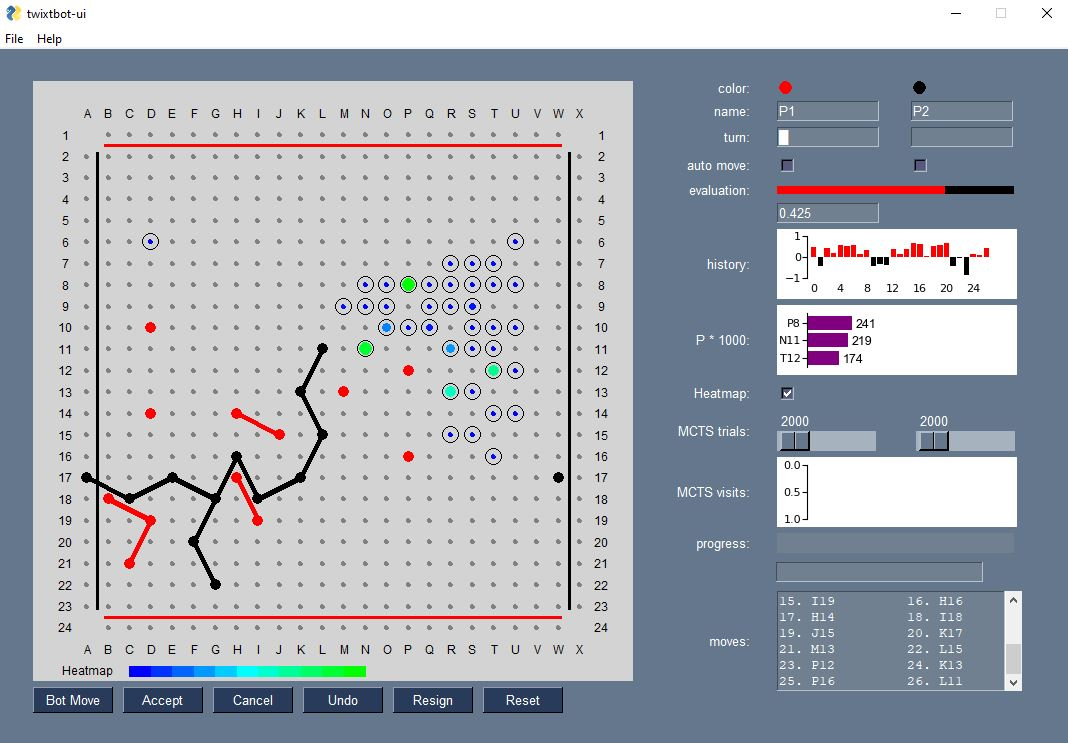
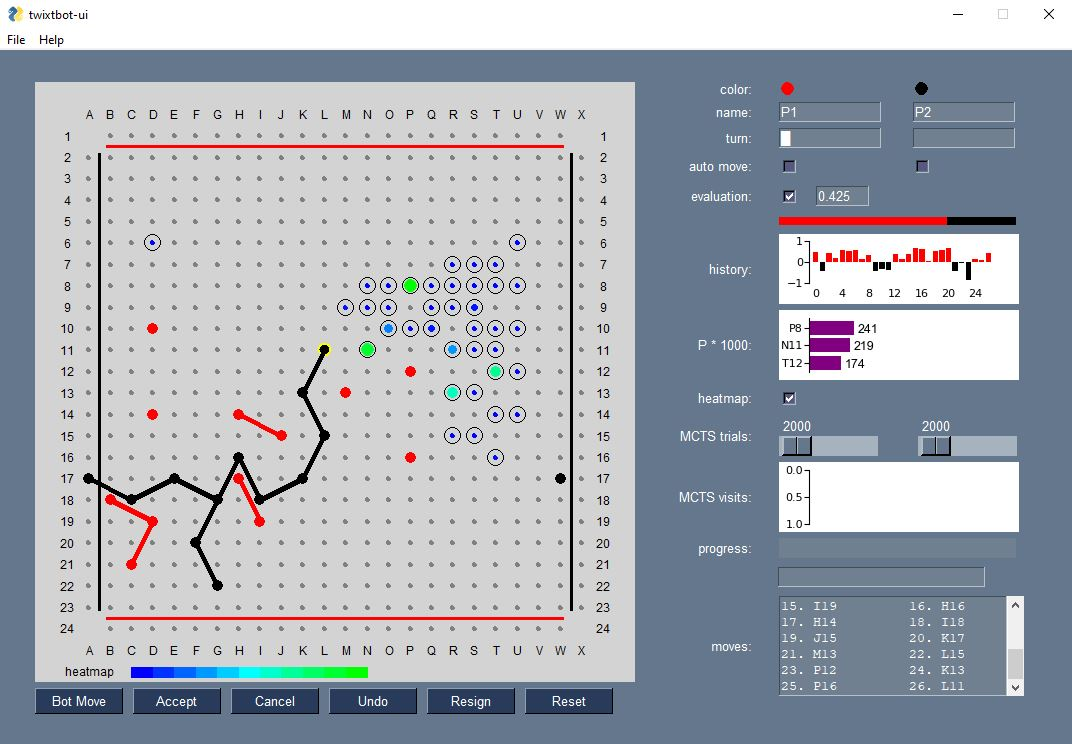
option to hide evaluation / bugfix cancel MCTS (#58)
* Added share directory to .gitignore
* hide_policy_#47 initial commit
* bugfix cancel + smart accept
* update README.md and images

diff --git a/src/tbui.py b/src/tbui.py
@@ -23,6 +23,7 @@ class BotEvent(threading.Event):
 
     def __init__(self):
         super().__init__()
+        self.context = None
 
     def get_context(self):
         return self.context
@@ -59,6 +60,7 @@ class TwixtbotUI():
         self.game = game
         self.moves_score = {}
         self.stgs = stgs
+        self.bot_event = None
 
         # Setup main GUI window
         layout = lt.MainWindowLayout(board, stgs).get_layout()
@@ -93,6 +95,7 @@ class TwixtbotUI():
         self.window.bind('<Alt-g>', ct.B_RESIGN)
         self.window.bind('<Alt-r>', ct.B_RESET)
         self.window.bind('<Alt-m>', ct.EVENT_SHORTCUT_HEATMAP)
+        self.window.bind('<Alt-e>', ct.EVENT_SHORTCUT_SHOW_EVALUATION)
         self.window.bind('<Alt-KeyPress-1>', ct.EVENT_SHORTCUT_AUTOMOVE_1)
         self.window.bind('<Alt-KeyPress-2>', ct.EVENT_SHORTCUT_AUTOMOVE_2)
         self.window.bind('<Alt-Right->', ct.EVENT_SHORTCUT_TRIALS_1_PLUS)
@@ -193,7 +196,19 @@ class TwixtbotUI():
 
         return sc, moves, P
 
+    def clear_evals(self):
+        self.get_control(ct.K_EVAL_NUM).Update('')
+        self.get_control(ct.K_EVAL_BAR).Update(0)
+        self.eval_moves_plot.update()
+        self.eval_hist_plot.update()
+        self.visit_plot.update()
+
     def update_evals(self):
+        if not self.get_control(ct.K_SHOW_EVALUATION).get():
+            self.clear_evals()
+            self.next_move = None
+            return
+
         if not self.game_over(False):
             sc, moves, P = self.calc_eval()
 
@@ -232,8 +247,10 @@ class TwixtbotUI():
             if self.stgs.get(ct.K_SMART_ACCEPT[1]) and "Y" in values:
                 diff = values["Y"][0] - values["Y"][1]
                 if diff > max_value - value:
-                    # 2nd best cannot catch up => accept
-                    self.handle_accept_bot()
+                    # 2nd best cannot catch up => accept (if not already
+                    # cancelled)
+                    if self.bot_event.get_context() != ct.CANCEL_EVENT:
+                        self.handle_accept_bot()
 
                 # reduce max val
                 while diff > values["max"] - max_value + 20 and max_value >= value + 20:
@@ -263,7 +280,9 @@ class TwixtbotUI():
 
         self.update_turn_indicators()
         self.update_history()
-        self.update_evals()
+
+        if self.get_control(ct.K_SHOW_EVALUATION).get():
+            self.update_evals()
 
     def update_settings_changed(self):
         self.board.draw()
@@ -341,12 +360,12 @@ class TwixtbotUI():
         else:
             # mcts, or first/second move
             self.bots[self.game.turn].pick_move(
-                self.game, self.window, self.event)
+                self.game, self.window, self.bot_event)
 
     def launch_bot(self):
         self.visit_plot.update()
         self.window[ct.K_SPINNER[1]].Update(visible=True)
-        self.event = BotEvent()
+        self.bot_event = BotEvent()
         self.thread = threading.Thread(
             target=self.bot_move, args=(), daemon=True)
 
@@ -419,10 +438,10 @@ class TwixtbotUI():
                 ct.K_AUTO_MOVE, self.game.turn_to_player()).Update(False)
 
     def handle_accept_bot(self):
-        self.event.set(ct.ACCEPT_EVENT)
+        self.bot_event.set(ct.ACCEPT_EVENT)
 
     def handle_cancel_bot(self):
-        self.event.set(ct.CANCEL_EVENT)
+        self.bot_event.set(ct.CANCEL_EVENT)
         # switch off auto move
         if self.get_current(ct.K_AUTO_MOVE):
             self.set_current(ct.K_AUTO_MOVE, False)
@@ -432,20 +451,24 @@ class TwixtbotUI():
     def handle_thread_event(self, values):
         print("Bot response: " + str(values))
         if values["max"] != 0:
+            # mcts case
             self.update_progress(values)
 
-        if "moves" in values and "current" in values and len(values["moves"]) > 1:
+        if self.get_control(ct.K_SHOW_EVALUATION).get() and "moves" in values and "current" in values and len(values["moves"]) > 1:
             self.visit_plot.update(values, max(1, values["max"]))
 
         if values["status"] == "done":
             self.get_control(ct.K_SPINNER).Update(visible=False)
-            if not self.event.is_set() or self.event.get_context() == ct.ACCEPT_EVENT:
+            if not self.bot_event.is_set() or self.bot_event.get_context() == ct.ACCEPT_EVENT:
                 # bot has not been cancelled (but is finished or accepted)
                 self.execute_move(values["moves"][0])
                 self.update_after_move()
             else:
-                # clear progress controls
+                # bot has been cancelled clear progress controls and visits
                 self.update_progress()
+                # reset history_at_root resets tree and visit counts
+                self.bots[self.game.turn].nm.history_at_root = None
+
                 # switch off auto move
                 if self.get_current(ct.K_AUTO_MOVE):
                     self.set_current(ct.K_AUTO_MOVE, False)
@@ -595,6 +618,13 @@ class TwixtbotUI():
             self.update_after_move()
             return True
 
+        if event == ct.EVENT_SHORTCUT_SHOW_EVALUATION:
+            # toggle evaluation checkbox and redraw board
+            self.get_control(ct.K_SHOW_EVALUATION).Update(
+                not self.get_control(ct.K_SHOW_EVALUATION).get())
+            self.update_after_move()
+            return True
+
         if event == ct.EVENT_SHORTCUT_AUTOMOVE_1:
             check = self.get_control(ct.K_AUTO_MOVE, 1).get()
             self.get_control(ct.K_AUTO_MOVE, 1).Update(not check)
@@ -643,9 +673,14 @@ class TwixtbotUI():
             self.update_bots()
             return
 
-        # click on heatmap (no short
+        # click on heatmap (no shortcuts)
         if event == ct.K_HEATMAP[1]:
             self.update_after_move()
+            return
+
+        # click on evaluation checkbox (no shortcuts)
+        if event == ct.K_SHOW_EVALUATION[1]:
+            self.update_evals()
             return
 
         # thread events

diff --git a/src/layout.py b/src/layout.py
@@ -124,6 +124,13 @@ def row_moves():
                          key=ct.K_MOVES[1], disabled=True, size=(28, 6))]
 
 
+def row_eval_show_num():
+    return [text_label(ct.K_SHOW_EVALUATION[0]),
+            sg.Checkbox(text="", enable_events=True, default=ct.K_SHOW_EVALUATION[3],
+                        key=ct.K_SHOW_EVALUATION[1]),
+            text_output(ct.K_EVAL_NUM[1], 7)]
+
+
 def row_heatmap():
     return [text_label(ct.K_HEATMAP[0]),
             sg.Checkbox(
@@ -142,10 +149,6 @@ class MainWindowLayout():
                   self.stgs.get(ct.K_COLOR[2]))
         return [text_label(ct.K_EVAL_BAR[0]), sg.ProgressBar(2000, orientation='h', size=(21.5, 8), key=ct.K_EVAL_BAR[1],
                                                              bar_color=colors)]
-
-    def row_eval_num(self):
-        return [text_label(ct.K_EVAL_NUM[0]),
-                text_output(ct.K_EVAL_NUM[1], 14)]
 
     def row_eval_moves(self):
         return [text_label(ct.K_EVAL_MOVES[0]),
@@ -175,8 +178,8 @@ class MainWindowLayout():
                                  row_names(),
                                  row_turn_indicators(),
                                  row_auto_moves(),
+                                 row_eval_show_num(),
                                  self.row_eval_bar(),
-                                 self.row_eval_num(),
                                  self.row_eval_hist(),
                                  self.row_eval_moves(),
                                  row_heatmap(),

diff --git a/src/constants.py b/src/constants.py
@@ -86,14 +86,14 @@ K_HIGHLIGHT_LAST_MOVE = ['highlight last move',
 
 K_MODEL_FOLDER = ['model folder', "P1_MODEL_FOLDER",
                   "P2_MODEL_FOLDER", "../model/pb", "../model/pb"]
-K_HEATMAP = ['Heatmap']
 
 
 # non-setting keys
-K_EVAL_BAR = ['evaluation', 'EVAL_BAR', None, 0]
+K_SHOW_EVALUATION = ['evaluation', 'SHOW_EVALUATION', None, True]
+K_EVAL_BAR = ['', 'EVAL_BAR', None, 0]
 K_EVAL_NUM = ['', 'EVAL_NUM', None, ""]
 K_EVAL_MOVES = ['P * 1000', 'EVAL_MOVES', None, ""]
-K_HEATMAP = ['Heatmap', 'HEATMAP']
+K_HEATMAP = ['heatmap', 'HEATMAP']
 K_EVAL_HIST = ['history', 'EVAL_HIST']
 K_SPLASH_PROGRESS_BAR = ['SPLASH_PROGRESS_BAR']
 K_SPLASH_STATUS_TEXT = ['SPLASH_STATUS_TEXT']
@@ -146,6 +146,7 @@ TAB_LABEL_PLAYER2 = "Player &2"
 
 # shortcut events for checkboxes
 EVENT_SHORTCUT_HEATMAP = 'SHORTCUT_HEATMAP'
+EVENT_SHORTCUT_SHOW_EVALUATION = 'SHORTCUT_SHOW_EVALUATION'
 EVENT_SHORTCUT_AUTOMOVE_1 = 'SHORTCUT_AUTOMOVE_1'
 EVENT_SHORTCUT_AUTOMOVE_2 = 'SHORTCUT_AUTOMOVE_2'
 EVENT_SHORTCUT_TRIALS_1_PLUS = 'SHORTCUT_TRIALS_1_PLUS'

diff --git a/src/plot.py b/src/plot.py
@@ -75,14 +75,13 @@ class EvalHistPlot():
             ax1.bar(values.keys(), values.values(),
                     color=list(map(self.sc_to_color, values.values())))
 
+            xmax = max(10, len(values))
+            plt.xlim(-1, xmax)
+            plt.xticks(np.arange(0, xmax, xmax // 6))
+            plt.ylim([-1, 1])
+
         plt.subplots_adjust(left=None, bottom=0.3,
                             right=None, top=0.9, wspace=0, hspace=0)
-
-        xmax = max(10, len(values))
-        plt.xlim(-1, xmax)
-        plt.xticks(np.arange(0, xmax, xmax // 6))
-        plt.ylim([-1, 1])
-
         self.agg.draw()
 
     def prepare(self, canvas):

diff --git a/src/backend/nnmplayer.py b/src/backend/nnmplayer.py
@@ -80,6 +80,7 @@ class Player:
             return moves[0]
 
         N = self.nm.mcts(game, self.num_trials, window, event)
+
         self.report = self.nm.report
 
         # When a forcing win or forcing draw move is found, there's no policy

diff --git a/README.md b/README.md
@@ -60,8 +60,15 @@ Note that the network was trained with self-crossing links allowed, which can le
 
 ### Evaluation
 
-Before each move, the bot evaluates the board. The value head of the network returns a value in range [-1.0..1.0] that indicates the probability for a win of player1 and player2, resp. The control bar displays the current and past evaluations.<br>
-The policy head returns a value in range [0..1] for each legal move. A bar chart on the right shows the top three moves. Switch on the *Heatmap* checkbox below the bar chart to visualize all p-values > 0. The bigger and greener the spots, the better the p-value. The color coding is:
+By default, the evaluation output of the network is displayed after each move. If you do not want to be distracted or influenced you can uncheck the *evaluation* checkbox. This also hides the *MCTS visits* bar chart.
+
+#### value head
+
+After each move, the network evaluates the board. The value head [-1.0..1.0] indicates the probability for a win of player1 and player2, resp. The value is displayed as a float number and as a horizontal bar. Past values are recorded in a history bar chart.<br>
+
+#### policy head
+
+The policy head of the network evaluates each leagal move. These p-values in range [0..1] indicate how promising a certain move for the current player is. A bar chart on the right shows the top three moves and their p-values. Switch on the *heatmap* checkbox below the bar chart to visualize all p-values > 0. The bigger and greener the spots, the better the p-value. The color coding is:
 + light green: close to 100% of best p
 + light blue: close to 50% of best p
 + dark blue: close to 0% of best p<br>
@@ -172,7 +179,7 @@ resign
         <tr>
             <td align="left" valign="top"><i>File</i>: <kbd>Alt</kbd>+<kbd>f</kbd><br><i>Help</i>: <kbd>Alt</kbd>+<kbd>h</kbd></td>
             <td align="left" valign="top"><i>Bot Move</i>: <kbd>Alt</kbd>+<kbd>b</kbd><br><i>Accept</i>: <kbd>Alt</kbd>+<kbd>a</kbd><br><i>Cancel</i>: <kbd>Alt</kbd>+<kbd>c</kbd><br><i>Undo</i>: <kbd>Alt</kbd>+<kbd>u</kbd><br><i>Resign</i>: <kbd>Alt</kbd>+<kbd>g</kbd><br><i>Reset</i>: <kbd>Alt</kbd>+<kbd>r</kbd></td>
-            <td align="left" valign="top"><i>auto move</i> 1: <kbd>Alt</kbd>+<kbd>1</kbd><br><i>auto move</i> 2: <kbd>Alt</kbd>+<kbd>2</kbd><br><i>Heatmap</i>: <kbd>Alt</kbd>+<kbd>m</kbd></td>
+            <td align="left" valign="top"><i>evaluation</i>: <kbd>Alt</kbd>+<kbd>e</kbd><br><i>auto move</i> 1: <kbd>Alt</kbd>+<kbd>1</kbd><br><i>auto move</i> 2: <kbd>Alt</kbd>+<kbd>2</kbd><br><i>heatmap</i>: <kbd>Alt</kbd>+<kbd>m</kbd></td>
             <td align="left" valign="top"><i>MCTS trials</i> 1: <kbd>Alt</kbd>+<kbd>&#8592</kbd>, <kbd>Alt</kbd>+<kbd>&#8594</kbd><br><i>MCTS trials</i> 2: <kbd>Alt</kbd>+<kbd>Shift</kbd>+<kbd>&#8592</kbd>, <kbd>Alt</kbd>+<kbd>Shift</kbd>+<kbd>&#8594</kbd></td>
         </tr>
     </tbody>
